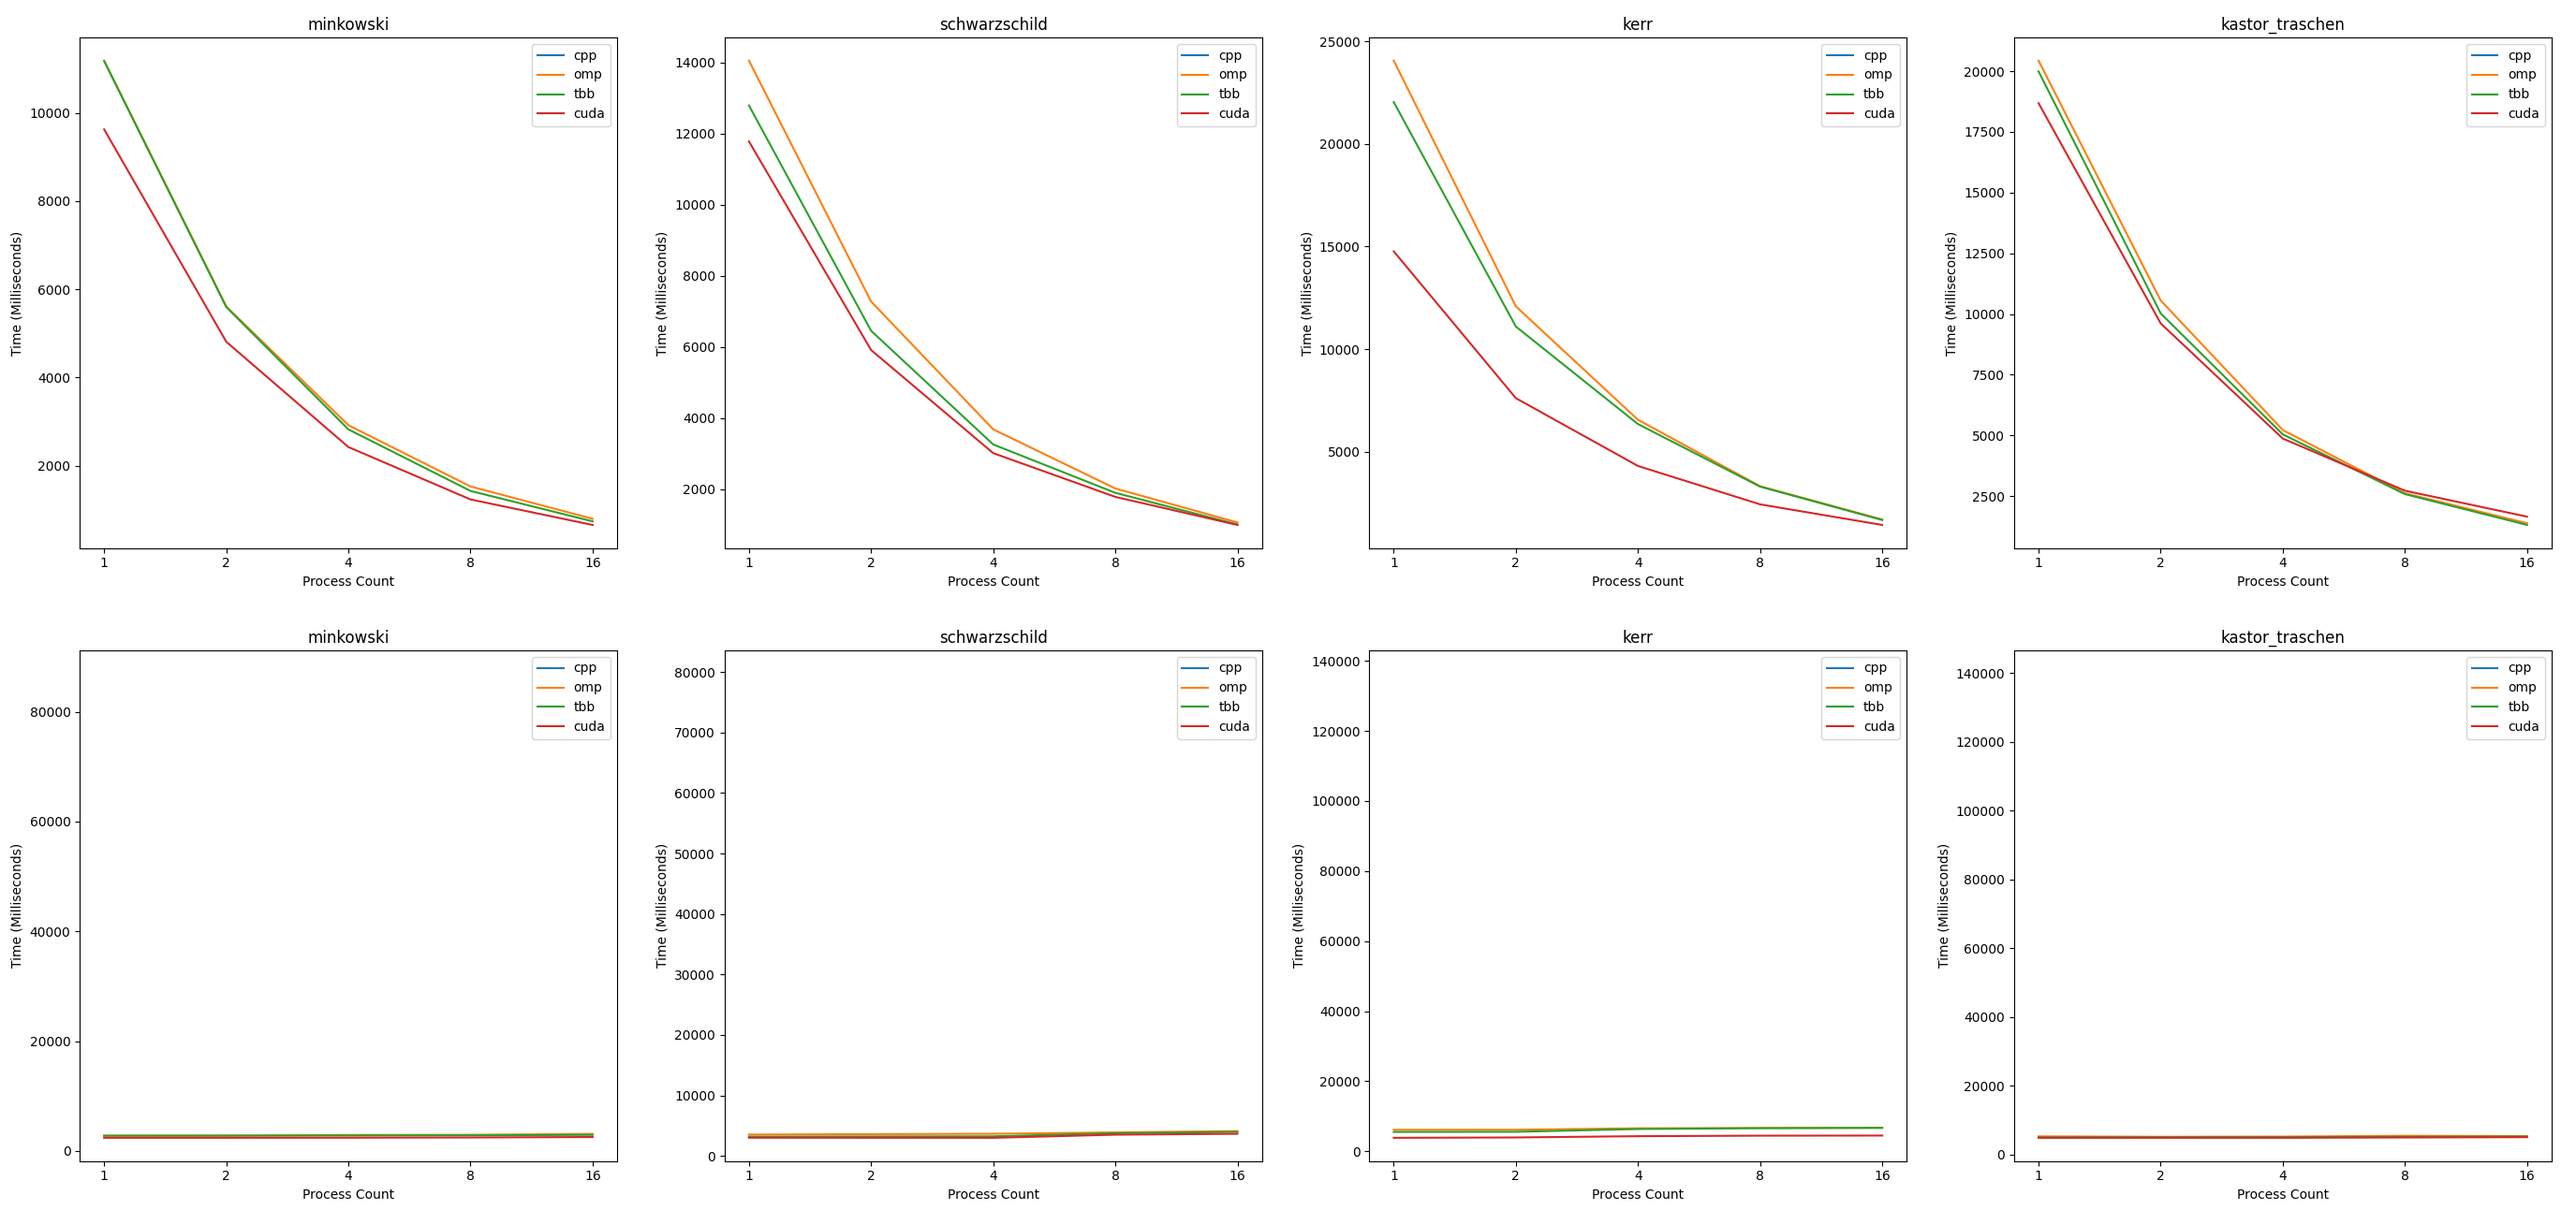
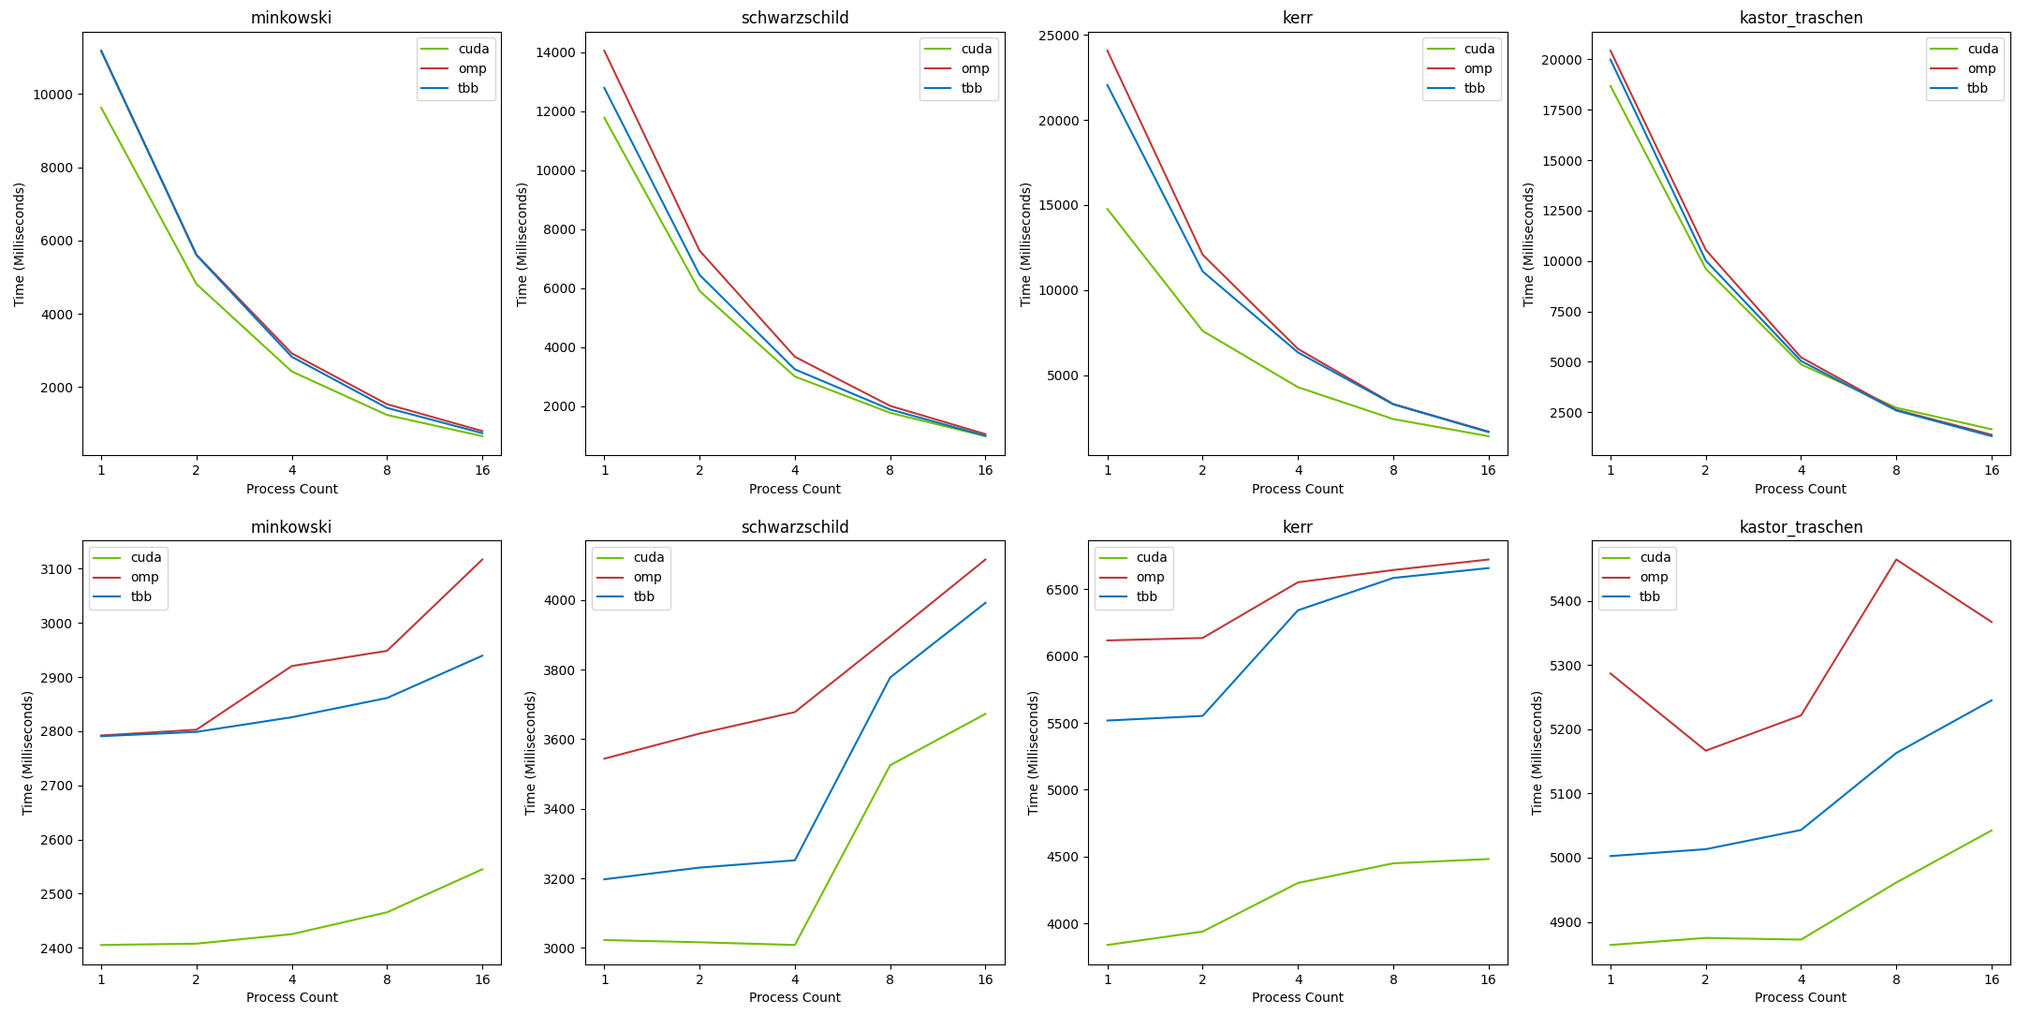
Benchmark images added. Everything complete regarding measurements.

diff --git a/utility/plot/plot_cluster_benchmarks.py b/utility/plot/plot_cluster_benchmarks.py
@@ -3,7 +3,7 @@ import pandas            as pd
 
 # If image size is an array of numbers, creates strong scaling plots.
 # If image size is an array of arrays , creates weak   scaling plots.
-def create_plots(file_prefix, devices, process_counts, metrics, image_size, plots):
+def create_plots(file_prefix, devices, process_counts, metrics, image_size, colors, plots):
     filtered = []
     for device in devices:
         for index, process_count in enumerate(process_counts):
@@ -20,7 +20,7 @@ def create_plots(file_prefix, devices, process_counts, metrics, image_size, plot
                     'mean'         : selection['mean'].max()})
     filtered = pd.DataFrame(filtered)
 
-    for device in devices:
+    for device_index, device in enumerate(devices):
         for index, metric in enumerate(metrics):
             selection = filtered[
                 (filtered['device'] == device) &
@@ -28,17 +28,18 @@ def create_plots(file_prefix, devices, process_counts, metrics, image_size, plot
             plots[index].set_title (metric)
             plots[index].set_xlabel("Process Count")
             plots[index].set_ylabel("Time (Milliseconds)")
-            plots[index].plot      (selection['process_count'], selection['mean'], label=device)
+            plots[index].plot      (selection['process_count'], selection['mean'], label=device, color=colors[device_index])
             plots[index].legend    ()
 
 file_prefix               = '../../data/outputs/performance/benchmark_cluster_'
-devices                   = ['cpp', 'omp', 'tbb', 'cuda']
-metrics                   = ["minkowski", "schwarzschild", "kerr", "kastor_traschen"]
+devices                   = ['cpp', 'cuda', 'omp', 'tbb']
+metrics                   = ['minkowski', 'schwarzschild', 'kerr', 'kastor_traschen']
 process_counts            = [1, 2, 4, 8, 16] # , 32, 64]
 strong_scaling_image_size = [1024, 1024]
 weak_scaling_image_sizes  = [[512, 512], [724, 724] ,[1024, 1024], [1448, 1448], [2048, 2048]] # , [2896, 2896], [4096, 4096]]
+colors                    = [(0.4, 0.4, 0.4), (0.45, 0.75, 0), (0.75, 0.225, 0.225), (0, 0.45, 0.75)]
 
 figure, plots  = plt.subplots(2,4)
-create_plots(file_prefix, devices, process_counts, metrics, strong_scaling_image_size, plots[0])
-create_plots(file_prefix, devices, process_counts, metrics, weak_scaling_image_sizes , plots[1])
+create_plots(file_prefix, devices, process_counts, metrics, strong_scaling_image_size, colors, plots[0])
+create_plots(file_prefix, devices, process_counts, metrics, weak_scaling_image_sizes , colors, plots[1])
 plt.show()

diff --git a/utility/plot/plot_single_node_benchmarks.py b/utility/plot/plot_single_node_benchmarks.py
@@ -2,17 +2,18 @@ import matplotlib.pyplot as plt
 import pandas            as pd
 
 file_prefix = '../../data/outputs/performance/benchmark_single_'
-devices     = ['cpp', 'omp', 'tbb', 'cuda']
+devices     = ['cpp', 'cuda', 'omp', 'tbb']
 metrics     = ["minkowski", "schwarzschild", "kerr", "kastor_traschen"]
+colors      = [(0.4, 0.4, 0.4), (0.45, 0.75, 0), (0.75, 0.225, 0.225), (0, 0.45, 0.75)]
 
 figure, plots = plt.subplots(1,4)
-for device in devices:
+for device_index, device in enumerate(devices):
     data = pd.read_csv(file_prefix + device + ".csv")
     for index, metric in enumerate(metrics):
         selection = data[data['metric'] == metric].sort_values(by=['width'])
         plots[index].set_title (metric)
         plots[index].set_xlabel("Image Size (Pixels)")
         plots[index].set_ylabel("Time (Milliseconds)")
-        plots[index].plot      (selection['width'].apply(str) + 'x' + selection['height'].apply(str), selection['mean'], label=device)
+        plots[index].plot      (selection['width'].apply(str) + 'x' + selection['height'].apply(str), selection['mean'], label=device, color=colors[device_index])
         plots[index].legend    ()
 plt.show()
